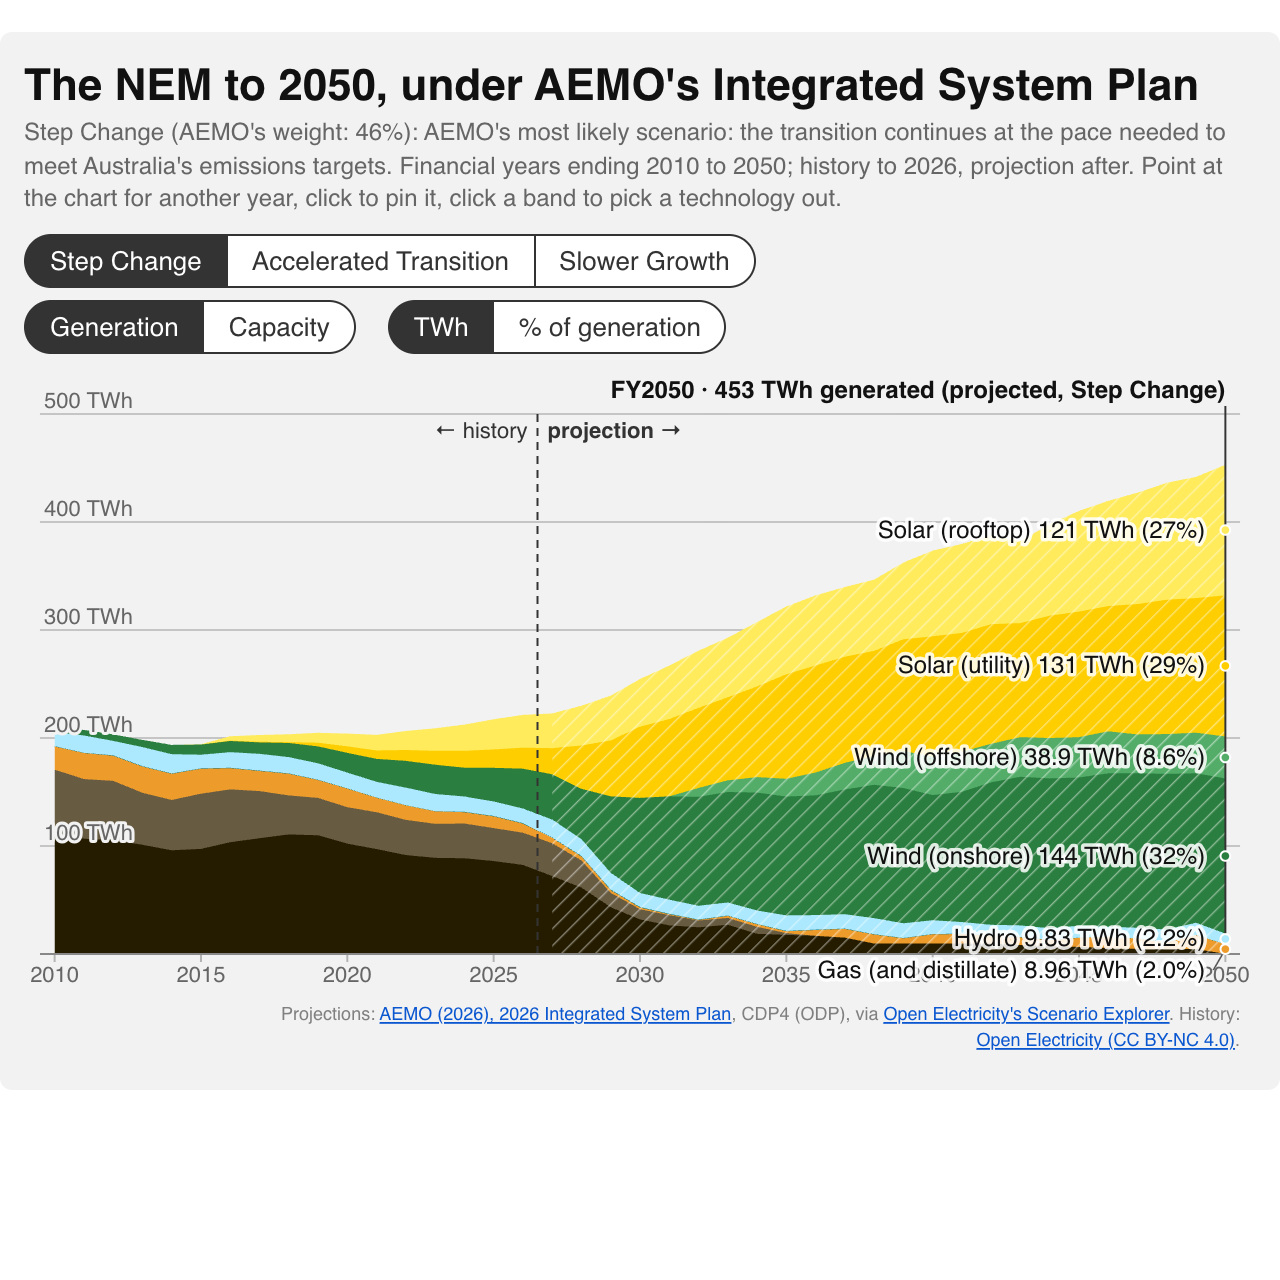
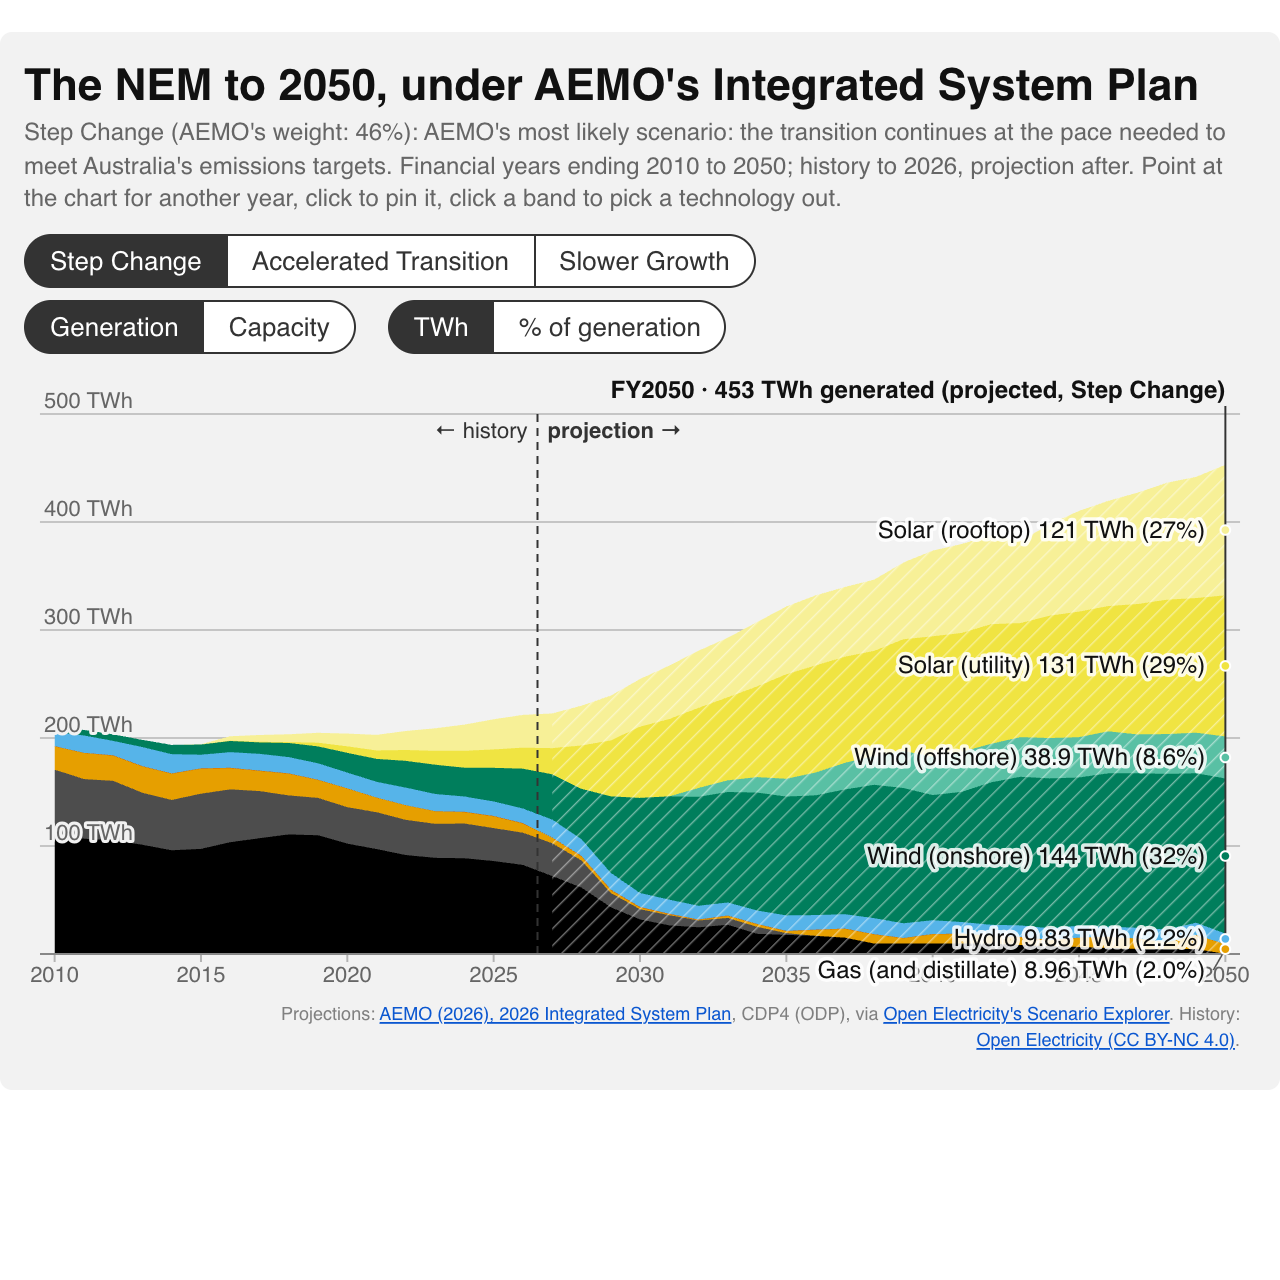
Energy widgets: Okabe and Ito's colours, and the Sankey's note states the final numbers at once
The NEM generation and NEM to 2050 charts move to Okabe and Ito's palette: coal black, gas
orange, bioenergy and other vermilion, hydro sky blue, wind bluish green, solar yellow,
batteries blue, imports reddish purple. Where one colour covers two bands it is shaded:
brown coal a grey tint of black, onshore wind darker and offshore lighter, rooftop solar
lighter than utility, and the three loads below zero tints of their sources' colours. In the
Sankey the note under the title now jumps straight to the final numbers while the bands and
the figures on them still glide.

Changed region(s): [[0.0312, 0.3438, 0.9688, 0.75]]

diff --git a/src/nem-generation/widget.js b/src/nem-generation/widget.js
@@ -38,23 +38,25 @@ export const MEASURES = [
   {id: "share", label: "% of generation", title: "Each source as a percentage of the electricity generated"},
 ];
 
-// The seven sources, in stacking order from the bottom, with Open Electricity's colours, and
-// the fuel technologies each gathers; then imports, and the three loads. `kind` says how a
-// series is treated: sources make up the generation that shares are shares of; imports are
-// drawn in GWh under the sources but are another region's generation; loads hang below zero.
+// The seven sources, in stacking order from the bottom, in Okabe and Ito's colours (coal black,
+// gas orange, other vermilion, batteries blue, hydro sky blue, wind bluish green, solar
+// yellow), and the fuel technologies each gathers; then imports, in reddish purple, and the
+// three loads, each a tint of its source's colour. `kind` says how a series is treated:
+// sources make up the generation that shares are shares of; imports are drawn in GWh under
+// the sources but are another region's generation; loads hang below zero.
 export const GROUPS = [
-  {id: "imports", label: "Imports", colour: "#CFA7FF", kind: "imports", members: ["imports"]},
-  {id: "coal", label: "Coal", colour: "#251C00", kind: "source", members: ["coal_brown", "coal_black"]},
-  {id: "other", label: "Other", colour: "#0B757C", kind: "source", members: ["bioenergy_biogas", "bioenergy_biomass", "distillate"],
+  {id: "imports", label: "Imports", colour: "#CC79A7", kind: "imports", members: ["imports"]},
+  {id: "coal", label: "Coal", colour: "#000000", kind: "source", members: ["coal_brown", "coal_black"]},
+  {id: "other", label: "Other", colour: "#D55E00", kind: "source", members: ["bioenergy_biogas", "bioenergy_biomass", "distillate"],
     long: "Bioenergy and distillate"},
-  {id: "gas", label: "Gas", colour: "#E78114", kind: "source", members: ["gas_steam", "gas_ccgt", "gas_ocgt", "gas_recip", "gas_wcmg"]},
-  {id: "batteries", label: "Batteries", colour: "#3145CE", kind: "source", members: ["battery_discharging"]},
-  {id: "hydro", label: "Hydro", colour: "#ACE9FE", kind: "source", members: ["hydro"]},
-  {id: "wind", label: "Wind", colour: "#2A7E3F", kind: "source", members: ["wind"]},
-  {id: "solar", label: "Solar", colour: "#FECE00", kind: "source", members: ["solar_utility", "solar_rooftop"]},
-  {id: "pumps", label: "Pumping", colour: "#00A5F1", kind: "load", members: ["pumps"], long: "Pumped hydro, pumping"},
-  {id: "battery_charging", label: "Battery charging", colour: "#4F5FD7", kind: "load", members: ["battery_charging"]},
-  {id: "exports", label: "Exports", colour: "#722AF7", kind: "load", members: ["exports"]},
+  {id: "gas", label: "Gas", colour: "#E69F00", kind: "source", members: ["gas_steam", "gas_ccgt", "gas_ocgt", "gas_recip", "gas_wcmg"]},
+  {id: "batteries", label: "Batteries", colour: "#0072B2", kind: "source", members: ["battery_discharging"]},
+  {id: "hydro", label: "Hydro", colour: "#56B4E9", kind: "source", members: ["hydro"]},
+  {id: "wind", label: "Wind", colour: "#009E73", kind: "source", members: ["wind"]},
+  {id: "solar", label: "Solar", colour: "#F0E442", kind: "source", members: ["solar_utility", "solar_rooftop"]},
+  {id: "pumps", label: "Pumping", colour: "#9AD2F2", kind: "load", members: ["pumps"], long: "Pumped hydro, pumping"},
+  {id: "battery_charging", label: "Battery charging", colour: "#66AAD1", kind: "load", members: ["battery_charging"]},
+  {id: "exports", label: "Exports", colour: "#995B7D", kind: "load", members: ["exports"]},
 ];
 const REGION_ALIASES = {nem: "NEM", _all: "NEM", all: "NEM", nsw: "NSW1", qld: "QLD1", sa: "SA1", tas: "TAS1", vic: "VIC1", wa: "WEM", swis: "WEM"};
 

diff --git a/src/energy-chain/widget.js b/src/energy-chain/widget.js
@@ -261,9 +261,12 @@ export function createEnergyChainWidget({width = FIGURE_WIDTH, bulb: initialBulb
 
     const what = {coal: "in the coal", gas: "in the gas", nuclear: "in the nuclear fuel", biomass: "in the biomass", geothermal: "in the geothermal steam",
       hydro: "in the falling water", wind: "in the wind through the rotor", solar: "in the sunlight on the panel"}[source];
-    subheading.textContent = `Of ${SOURCE} units of energy ${what}, ${formatUnits(c.light)} become light. ` +
-      `The ${src.station.toLowerCase()} sends out ${formatUnits(c.toGrid)}, ${formatUnits(c.delivered)} reach the house, ${b.the} uses ${formatUnits(c.device)} of them` +
-      (c.surplus > 0.05 ? ` and the other ${formatUnits(c.surplus)} need not be generated at all.` : ".") +
+    // The note under the title states the final numbers at once, while the drawing and the
+    // figures on the bands glide to them.
+    const f = chain(bulb, efficiency);
+    subheading.textContent = `Of ${SOURCE} units of energy ${what}, ${formatUnits(f.light)} become light. ` +
+      `The ${src.station.toLowerCase()} sends out ${formatUnits(f.toGrid)}, ${formatUnits(f.delivered)} reach the house, ${b.the} uses ${formatUnits(f.device)} of them` +
+      (f.surplus > 0.05 ? ` and the other ${formatUnits(f.surplus)} need not be generated at all.` : ".") +
       (src.burns ? "" : " Nothing is burned here: what the plant does not capture simply passes by.");
     svg.setAttribute("aria-label", `Sankey diagram of the energy chain from ${src.label.toLowerCase()} to light. ${subheading.textContent}`);
   }

diff --git a/src/isp-scenarios/index.md b/src/isp-scenarios/index.md
@@ -48,4 +48,4 @@ display(embedSnippets({
 
 ---
 
-Data: AEMO (2026), [*2026 Integrated System Plan for the National Electricity Market*](https://aemo.com.au/-/media/files/major-publications/isp/2026/2026-integrated-system-plan-isp.pdf), Figures 1 and 2 and the generation and storage outlook workbooks, via Open Electricity's [Scenario Explorer](https://openelectricity.org.au/scenarios) and its open-source [frontend](https://github.com/opennem/openelectricity) (MIT), which carries AEMO's outlooks as JSON; history from [Open Electricity](https://openelectricity.org.au/) (The Superpower Institute), [CC BY-NC 4.0](https://platform.openelectricity.org.au/license). Colours are Open Electricity's.
+Data: AEMO (2026), [*2026 Integrated System Plan for the National Electricity Market*](https://aemo.com.au/-/media/files/major-publications/isp/2026/2026-integrated-system-plan-isp.pdf), Figures 1 and 2 and the generation and storage outlook workbooks, via Open Electricity's [Scenario Explorer](https://openelectricity.org.au/scenarios) and its open-source [frontend](https://github.com/opennem/openelectricity) (MIT), which carries AEMO's outlooks as JSON; history from [Open Electricity](https://openelectricity.org.au/) (The Superpower Institute), [CC BY-NC 4.0](https://platform.openelectricity.org.au/license). Colours are Okabe and Ito's.

diff --git a/src/nem-generation/index.md b/src/nem-generation/index.md
@@ -47,4 +47,4 @@ display(embedSnippets({
 
 ---
 
-Data: [Open Electricity](https://openelectricity.org.au/) (The Superpower Institute), [CC BY-NC 4.0](https://platform.openelectricity.org.au/license): the monthly energy by fuel technology for the NEM, each of its regions and the WEM from its v4 data files (`data.openelectricity.org.au/v4/stats/au/…/energy/all.json`). Colours are Open Electricity's. The data file is refreshed by `scripts/nem-generation.mjs`; the last month in it is written under the chart.
+Data: [Open Electricity](https://openelectricity.org.au/) (The Superpower Institute), [CC BY-NC 4.0](https://platform.openelectricity.org.au/license): the monthly energy by fuel technology for the NEM, each of its regions and the WEM from its v4 data files (`data.openelectricity.org.au/v4/stats/au/…/energy/all.json`). Colours are Okabe and Ito's. The data file is refreshed by `scripts/nem-generation.mjs`; the last month in it is written under the chart.
